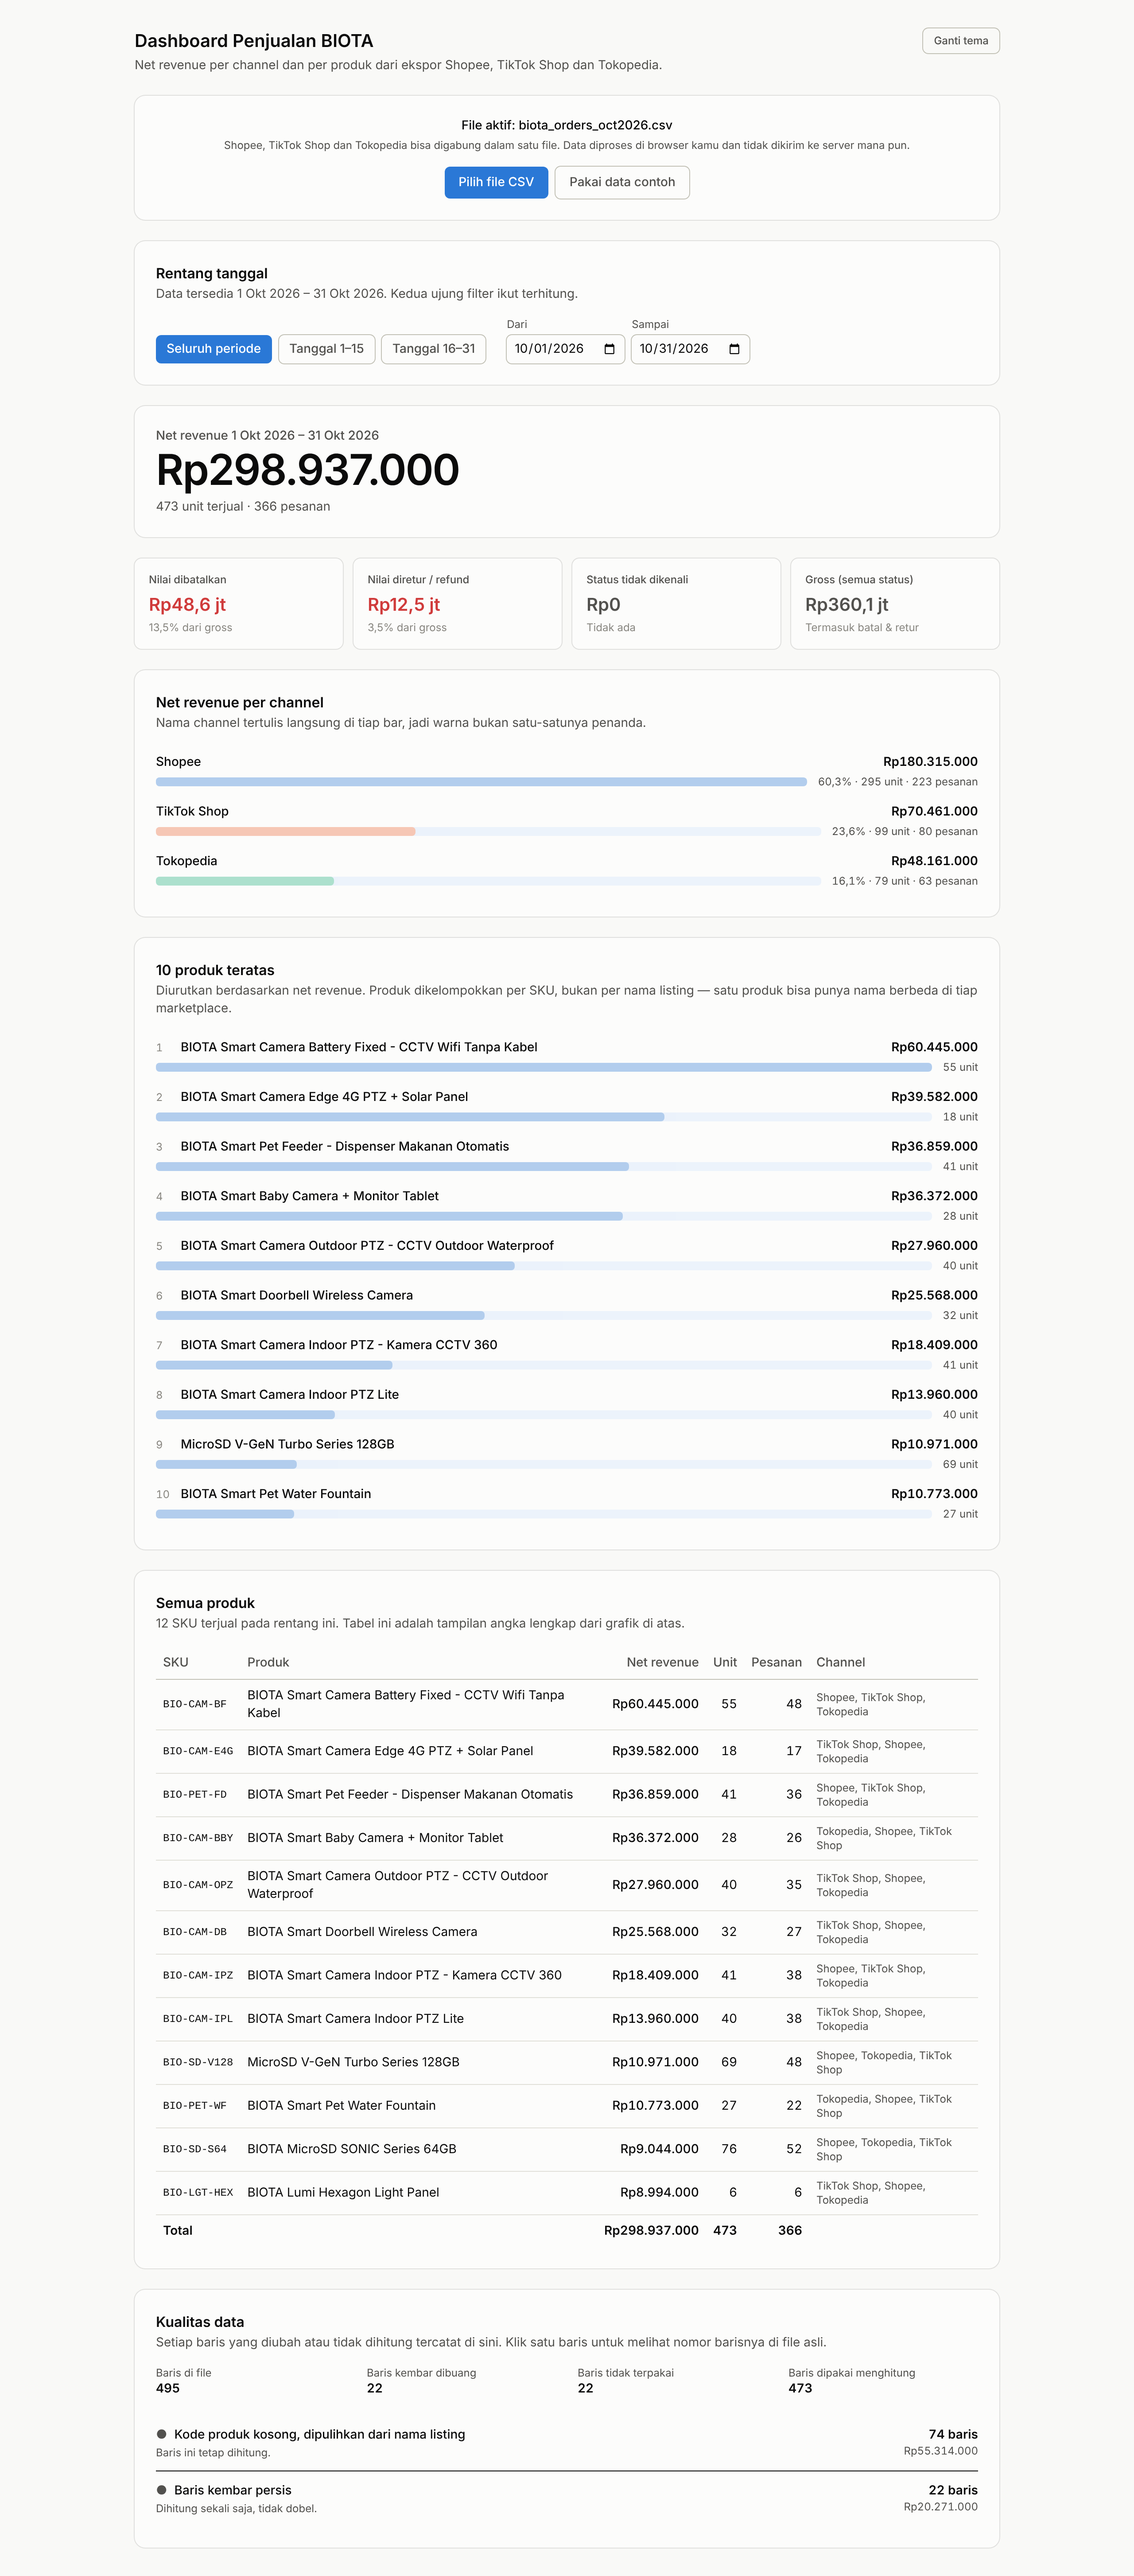
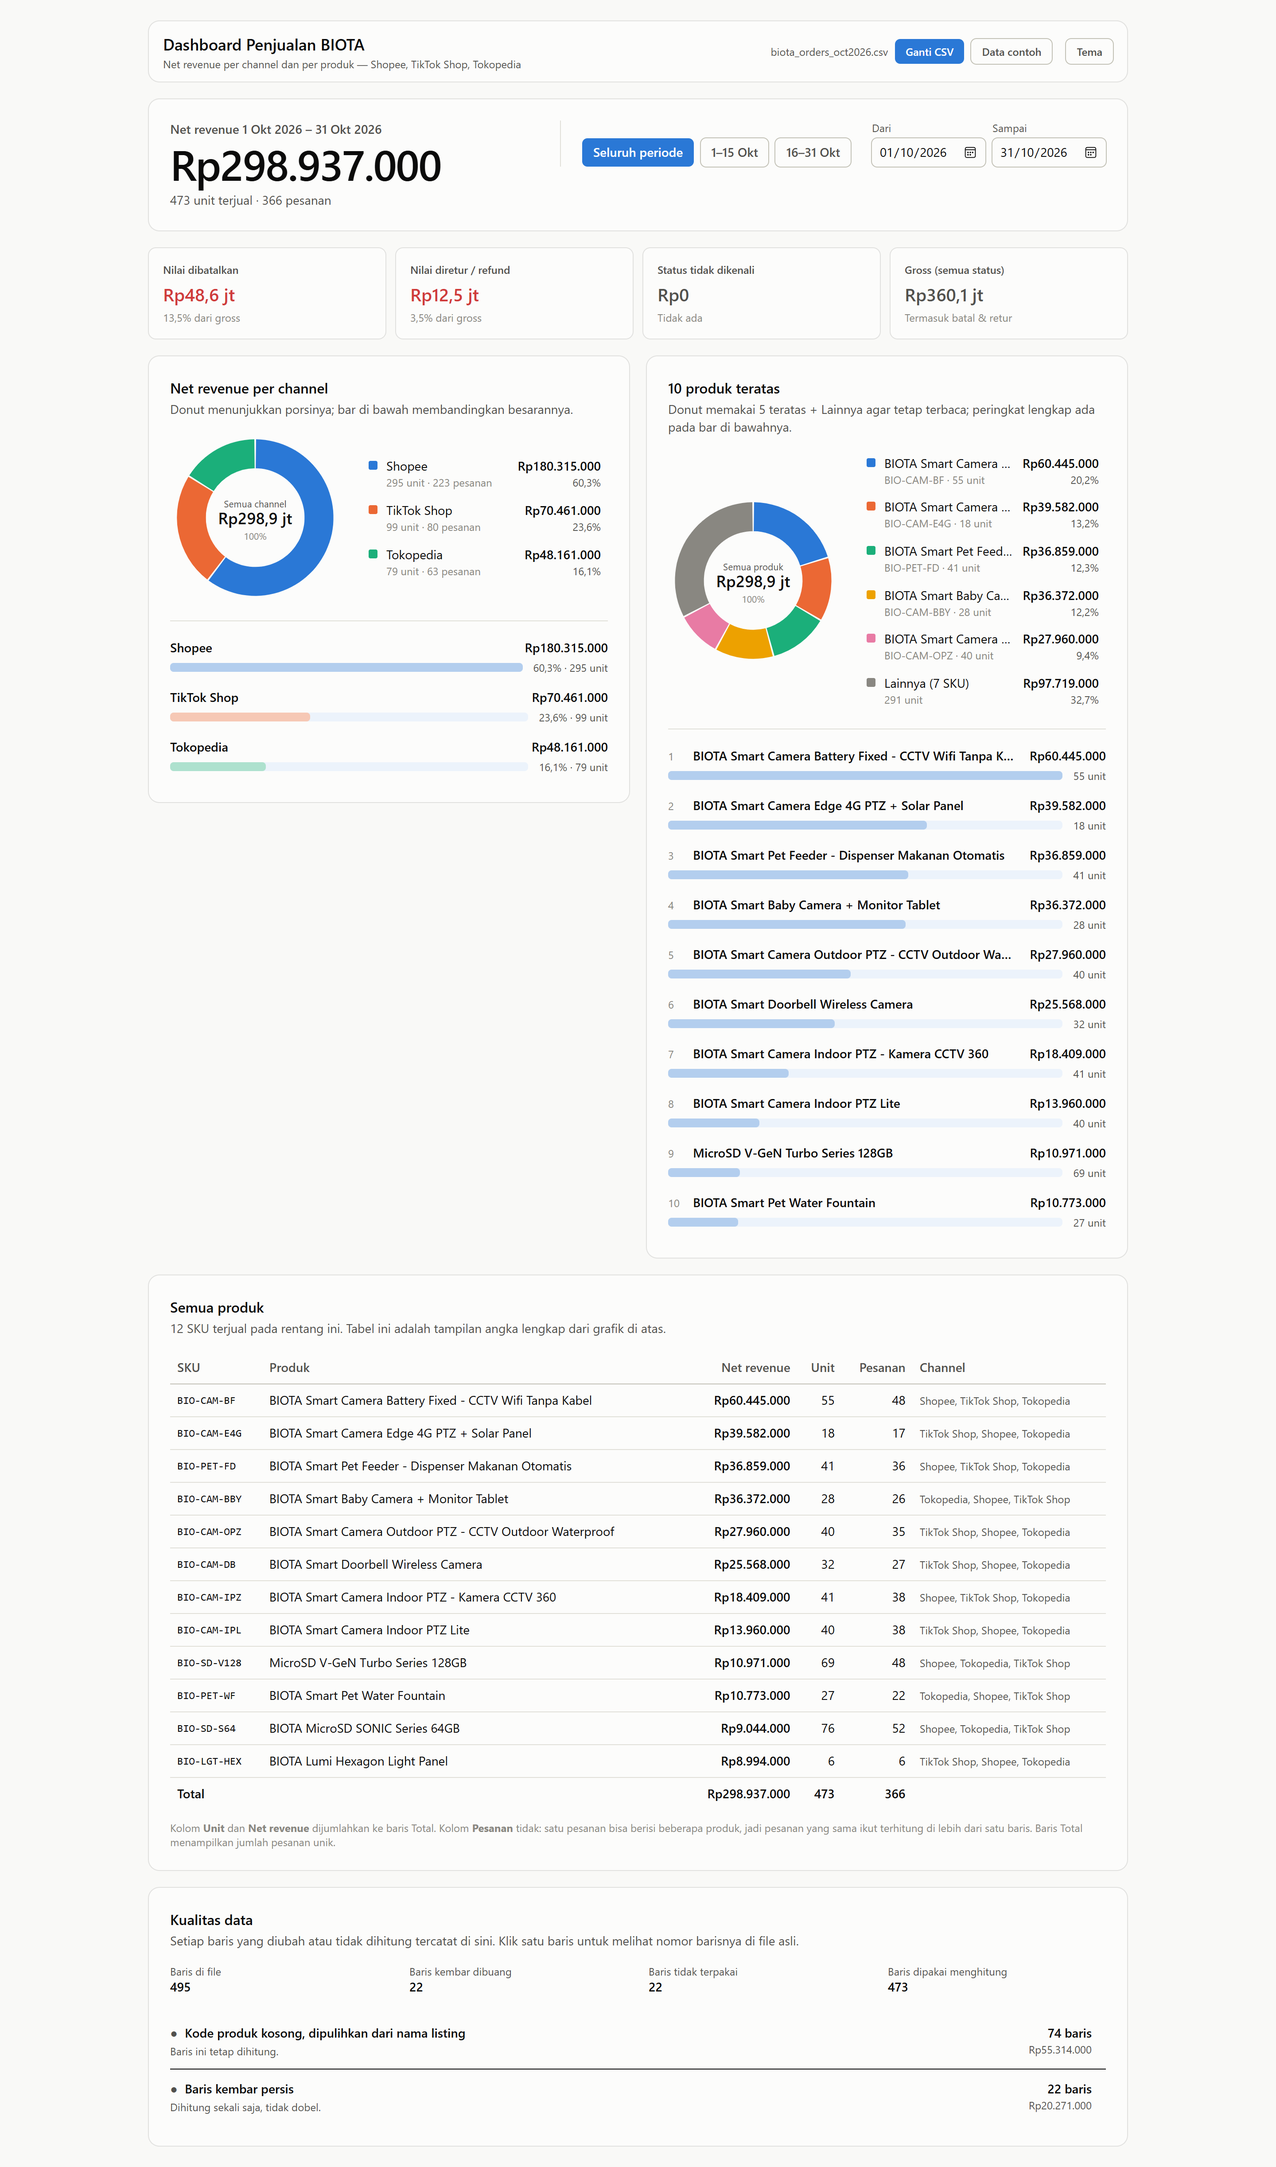
chore: update readme

diff --git a/app/page.tsx b/app/page.tsx
@@ -295,8 +295,11 @@ export default function Page() {
             />
           </div>
 
-          {/* Dua kartu grafik berdampingan. */}
-          <div className="grid gap-5 xl:grid-cols-2">
+          {/* Dua kartu grafik berdampingan.
+              `items-start` penting: tanpa itu grid meregangkan kedua kartu
+              setinggi yang terpanjang, dan kartu channel — yang isinya cuma
+              tiga baris — menyisakan ruang kosong besar di bawahnya. */}
+          <div className="grid items-start gap-5 xl:grid-cols-2">
             <Card
               title="Net revenue per channel"
               subtitle="Donut menunjukkan porsinya; bar di bawah membandingkan besarannya."

diff --git a/README.md b/README.md
@@ -410,6 +410,8 @@ legend bernama dan berangka, setiap bar punya label langsung, dan seluruh angka
 tersedia dalam bentuk tabel. Palet yang dipakai sudah dicek dengan alat pemeriksa
 keterbacaan bagi pengguna buta warna, di mode terang maupun gelap.
 
+![Dashboard dalam mode gelap](docs/dashboard-gelap.png)
+
 **Mode gelap disusun, bukan dibalik.** Nilai gelapnya ditetapkan sendiri dan
 diperiksa terhadap latar gelap, bukan hasil pembalikan otomatis dari mode terang.
 
